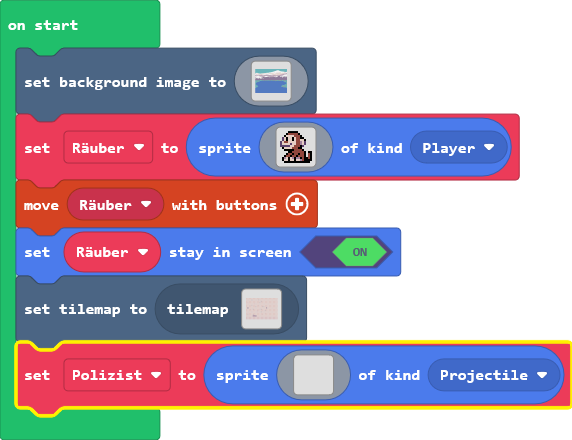
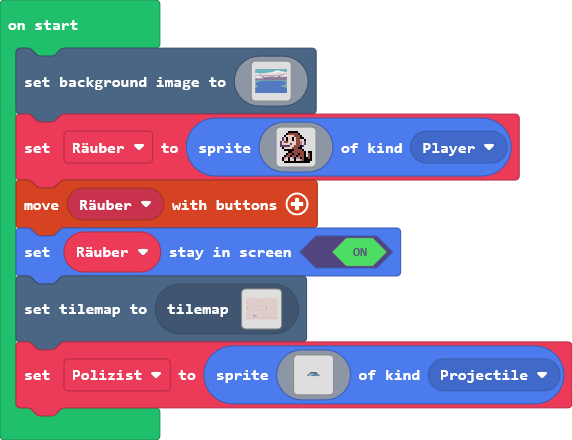
Update pxt.json, main.blocks, main.ts

Changed region(s): [[0.0, 0.7682, 1.0, 0.975], [0.535, 0.8273, 0.5647, 0.8568]]

diff --git a/main.ts b/main.ts
@@ -142,30 +142,30 @@ controller.moveSprite(Räuber)
 Räuber.setStayInScreen(true)
 tiles.setCurrentTilemap(tilemap`level2`)
 let Polizist = sprites.create(img`
-    0 0 0 0 0 0 0 0 0 0 0 0 0 0 0 0 0 0 0 0 0 0 0 0 0 0 0 0 0 0 0 0 0 0 0 0 0 0 0 0 0 0 0 0 0 0 0 0 0 0 0 0 0 0 0 0 0 0 0 0 0 0 0 0 0 0 0 0 0 0 0 0 0 0 c c c c c c c c c c c c c c c c c c c c c c c c c c c c c c c c c c c c c c c c c 0 0 0 0 0 0 0 0 0 0 0 0 0 0 0 0 0 0 0 0 0 0 0 0 0 0 0 0 0 0 0 0 0 0 0 0 0 0 0 0 0 0 0 0 0 0 0 0 0 0 0 0 0 0 0 0 0 0 0 0 0 0 0 0 0 0 0 0 0 0 0 0 0 0 0 0 0 0 0 0 0 0
-    0 0 0 0 0 0 0 0 0 0 0 0 0 0 0 0 0 0 0 0 0 0 0 0 0 0 0 0 0 0 0 0 0 0 0 0 0 0 0 0 0 0 0 0 0 0 0 0 0 0 0 0 0 0 0 0 0 0 0 0 0 0 0 0 0 0 0 0 0 0 0 0 0 0 c f f f f f f f f f f f f f f f f f f f f f f f f f f f f f f f f f f f f f f f f 0 0 0 0 0 0 0 0 0 0 0 0 0 0 0 0 0 0 0 0 0 0 0 0 0 0 0 0 0 0 0 0 0 0 0 0 0 0 0 0 0 0 0 0 0 0 0 0 0 0 0 0 0 0 0 0 0 0 0 0 0 0 0 0 0 0 0 0 0 0 0 0 0 0 0 0 0 0 0 0 0 0
-    0 0 0 0 0 0 0 0 0 0 0 0 0 0 0 0 0 0 0 0 0 0 0 0 0 0 0 0 0 0 0 0 0 0 0 0 0 0 0 0 0 0 0 0 0 0 0 0 0 0 0 0 0 0 0 0 0 0 0 0 0 0 0 0 0 0 0 0 0 0 0 0 0 0 c f f f f f f f f f f f f f f f f f f f f f f f f f f f f f f f f f f f f f f f f 0 0 0 0 0 0 0 0 0 0 0 0 0 0 0 0 0 0 0 0 0 0 0 0 0 0 0 0 0 0 0 0 0 0 0 0 0 0 0 0 0 0 0 0 0 0 0 0 0 0 0 0 0 0 0 0 0 0 0 0 0 0 0 0 0 0 0 0 0 0 0 0 0 0 0 0 0 0 0 0 0 0
-    0 0 0 0 0 0 0 0 0 0 0 0 0 0 0 0 0 0 0 0 0 0 0 0 0 0 0 0 0 0 0 0 0 0 0 0 0 0 0 0 0 0 0 0 0 0 0 0 0 0 0 0 0 0 0 0 0 0 0 0 0 0 0 0 0 0 0 0 0 0 0 0 0 0 c f f f f f f f f f f f f f f f f f f f f f f f f f f f f f f f f f f f f f f f f 0 0 0 0 0 0 0 0 0 0 0 0 0 0 0 0 0 0 0 0 0 0 0 0 0 0 0 0 0 0 0 0 0 0 0 0 0 0 0 0 0 0 0 0 0 0 0 0 0 0 0 0 0 0 0 0 0 0 0 0 0 0 0 0 0 0 0 0 0 0 0 0 0 0 0 0 0 0 0 0 0 0
-    0 0 0 0 0 0 0 0 0 0 0 0 0 0 0 0 0 0 0 0 0 0 0 0 0 0 0 0 0 0 0 0 0 0 0 0 0 0 0 0 0 0 0 0 0 0 0 0 0 0 0 0 0 0 0 0 0 0 0 0 0 0 0 0 0 0 0 0 0 0 0 0 0 0 c f f f f f f f f f f f f f f f f f f f f f f f f f f f f f f f f f f f f f f f f 0 0 0 0 0 0 0 0 0 0 0 0 0 0 0 0 0 0 0 0 0 0 0 0 0 0 0 0 0 0 0 0 0 0 0 0 0 0 0 0 0 0 0 0 0 0 0 0 0 0 0 0 0 0 0 0 0 0 0 0 0 0 0 0 0 0 0 0 0 0 0 0 0 0 0 0 0 0 0 0 0 0
-    0 0 0 0 0 0 0 0 0 0 0 0 0 0 0 0 0 0 0 0 0 0 0 0 0 0 0 0 0 0 0 0 0 0 0 0 0 0 0 0 0 0 0 0 0 0 0 0 0 0 0 0 0 0 0 0 0 0 0 0 0 0 0 0 0 0 0 0 0 0 0 0 0 0 c f f f f f f f f f f f f f f f f f f f f f f f f f f f f f f f f f f f f f f f f 0 0 0 0 0 0 0 0 0 0 0 0 0 0 0 0 0 0 0 0 0 0 0 0 0 0 0 0 0 0 0 0 0 0 0 0 0 0 0 0 0 0 0 0 0 0 0 0 0 0 0 0 0 0 0 0 0 0 0 0 0 0 0 0 0 0 0 0 0 0 0 0 0 0 0 0 0 0 0 0 0 0
-    0 0 0 0 0 0 0 0 0 0 0 0 0 0 0 0 0 0 0 0 0 0 0 0 0 0 0 0 0 0 0 0 0 0 0 0 0 0 0 0 0 0 0 0 0 0 0 0 0 0 0 0 0 0 0 0 0 0 0 0 0 0 0 0 0 0 0 0 0 0 0 0 0 0 c f f f f f f f f f f f f f f f f f f f f f f f f f f f f f f f f f f f f f f f f 0 0 0 0 0 0 0 0 0 0 0 0 0 0 0 0 0 0 0 0 0 0 0 0 0 0 0 0 0 0 0 0 0 0 0 0 0 0 0 0 0 0 0 0 0 0 0 0 0 0 0 0 0 0 0 0 0 0 0 0 0 0 0 0 0 0 0 0 0 0 0 0 0 0 0 0 0 0 0 0 0 0
-    0 0 0 0 0 0 0 0 0 0 0 0 0 0 0 0 0 0 0 0 0 0 0 0 0 0 0 0 0 0 0 0 0 0 0 0 0 0 0 0 0 0 0 0 0 0 0 0 0 0 0 0 0 0 0 0 0 0 0 0 0 0 0 0 0 0 0 0 0 0 0 0 0 0 c f f f f f f f f f f f f f f f f f f f f f f f f f f f f f f f f f f f f f f f f 0 0 0 0 0 0 0 0 0 0 0 0 0 0 0 0 0 0 0 0 0 0 0 0 0 0 0 0 0 0 0 0 0 0 0 0 0 0 0 0 0 0 0 0 0 0 0 0 0 0 0 0 0 0 0 0 0 0 0 0 0 0 0 0 0 0 0 0 0 0 0 0 0 0 0 0 0 0 0 0 0 0
-    0 0 0 0 0 0 0 0 0 0 0 0 0 0 0 0 0 0 0 0 0 0 0 0 0 0 0 0 0 0 0 0 0 0 0 0 0 0 0 0 0 0 0 0 0 0 0 0 0 0 0 0 0 0 0 0 0 0 0 0 0 0 0 0 0 0 0 c 0 0 0 0 0 c c c b b b 6 6 6 c c c c c c c c c c c c c c c c c c 8 8 8 8 8 8 8 8 8 8 8 8 8 c c c c 0 0 0 0 0 c 0 0 0 0 0 0 0 0 0 0 0 0 0 0 0 0 0 0 0 0 0 0 0 0 0 0 0 0 0 0 0 0 0 0 0 0 0 0 0 0 0 0 0 0 0 0 0 0 0 0 0 0 0 0 0 0 0 0 0 0 0 0 0 0 0 0 0 0 0 0 0 0 0 0
-    0 0 0 0 0 0 0 0 0 0 0 0 0 0 0 0 0 0 0 0 0 0 0 0 0 0 0 0 0 0 0 0 0 0 0 0 0 0 0 0 0 0 0 0 0 0 0 0 0 0 0 0 0 0 0 0 0 0 0 0 0 0 0 0 0 0 f f f f f f f f b b b b b b b b 6 6 6 6 6 6 6 6 6 6 6 6 6 6 6 6 6 8 8 8 8 8 8 8 8 8 8 8 8 8 8 8 c f f f f f f f f 0 0 0 0 0 0 0 0 0 0 0 0 0 0 0 0 0 0 0 0 0 0 0 0 0 0 0 0 0 0 0 0 0 0 0 0 0 0 0 0 0 0 0 0 0 0 0 0 0 0 0 0 0 0 0 0 0 0 0 0 0 0 0 0 0 0 0 0 0 0 0 0 0 0
-    0 0 0 0 0 0 0 0 0 0 0 0 0 0 0 0 0 0 0 0 0 0 0 0 0 0 0 0 0 0 0 0 0 0 0 0 0 0 0 0 0 0 0 0 0 0 0 0 0 0 0 0 0 0 0 0 0 0 0 0 0 0 0 0 0 0 f f f f f f f f b b b b b 6 b b 6 6 6 6 6 6 6 6 6 6 6 6 6 6 6 6 6 8 8 8 8 8 8 8 8 8 8 8 8 8 8 8 8 c f f f f f f f 0 0 0 0 0 0 0 0 0 0 0 0 0 0 0 0 0 0 0 0 0 0 0 0 0 0 0 0 0 0 0 0 0 0 0 0 0 0 0 0 0 0 0 0 0 0 0 0 0 0 0 0 0 0 0 0 0 0 0 0 0 0 0 0 0 0 0 0 0 0 0 0 0 0
-    0 0 0 0 0 0 0 0 0 0 0 0 0 0 0 0 0 0 0 0 0 0 0 0 0 0 0 0 0 0 0 0 0 0 0 0 0 0 0 0 0 0 0 0 0 0 0 0 0 0 0 0 0 0 0 0 0 0 0 0 0 0 0 0 0 0 f f f f f f f f b b b b b 9 b b 6 6 6 6 6 6 6 6 6 6 6 6 6 6 6 6 6 8 8 8 8 8 8 8 8 8 8 8 8 8 8 8 8 8 f f f f f f f 0 0 0 0 0 0 0 0 0 0 0 0 0 0 0 0 0 0 0 0 0 0 0 0 0 0 0 0 0 0 0 0 0 0 0 0 0 0 0 0 0 0 0 0 0 0 0 0 0 0 0 0 0 0 0 0 0 0 0 0 0 0 0 0 0 0 0 0 0 0 0 0 0 0
-    0 0 0 0 0 0 0 0 0 0 0 0 0 0 0 0 0 0 0 0 0 0 0 0 0 0 0 0 0 0 0 0 0 0 0 0 0 0 0 0 0 0 0 0 0 0 0 0 0 0 0 0 0 0 0 0 0 0 0 0 0 0 0 0 0 0 f f f f f f f f b b b b b 6 9 9 6 6 6 6 6 6 6 6 6 6 6 6 6 6 6 6 6 8 8 8 8 8 8 8 8 8 8 8 8 8 8 8 8 8 f f f f f f f 0 0 0 0 0 0 0 0 0 0 0 0 0 0 0 0 0 0 0 0 0 0 0 0 0 0 0 0 0 0 0 0 0 0 0 0 0 0 0 0 0 0 0 0 0 0 0 0 0 0 0 0 0 0 0 0 0 0 0 0 0 0 0 0 0 0 0 0 0 0 0 0 0 0
-    0 0 0 0 0 0 0 0 0 0 0 0 0 0 0 0 0 0 0 0 0 0 0 0 0 0 0 0 0 0 0 0 0 0 0 0 0 0 0 0 0 0 0 0 0 0 0 0 0 0 0 0 0 0 0 0 0 0 0 0 0 0 0 0 0 0 f f f f f f f f b b b b b 9 b 9 6 6 6 6 6 6 6 6 6 6 6 6 6 6 6 6 6 8 8 8 8 8 8 8 8 8 8 8 8 8 8 8 8 8 f f f f f f f 0 0 0 0 0 0 0 0 0 0 0 0 0 0 0 0 0 0 0 0 0 0 0 0 0 0 0 0 0 0 0 0 0 0 0 0 0 0 0 0 0 0 0 0 0 0 0 0 0 0 0 0 0 0 0 0 0 0 0 0 0 0 0 0 0 0 0 0 0 0 0 0 0 0
-    0 0 0 0 0 0 0 0 0 0 0 0 0 0 0 0 0 0 0 0 0 0 0 0 0 0 0 0 0 0 0 0 0 0 0 0 0 0 0 0 0 0 0 0 0 0 0 0 0 0 0 0 0 0 0 0 0 0 0 0 0 0 0 0 0 0 f f f f f f f f b b b b b b 6 6 6 6 6 6 6 6 6 6 6 6 6 6 6 6 6 6 6 8 8 8 8 8 8 8 8 8 8 8 8 8 8 8 8 8 f f f f f f f 0 0 0 0 0 0 0 0 0 0 0 0 0 0 0 0 0 0 0 0 0 0 0 0 0 0 0 0 0 0 0 0 0 0 0 0 0 0 0 0 0 0 0 0 0 0 0 0 0 0 0 0 0 0 0 0 0 0 0 0 0 0 0 0 0 0 0 0 0 0 0 0 0 0
-    0 0 0 0 0 0 0 0 0 0 0 0 0 0 0 0 0 0 0 0 0 0 0 0 0 0 0 0 0 0 0 0 0 0 0 0 0 0 0 0 0 0 0 0 0 0 0 0 0 0 0 0 0 0 0 0 0 0 0 0 0 0 0 0 0 0 f f f f f f f f b b b b b 6 6 6 6 6 6 6 6 6 6 6 6 6 6 6 6 6 6 6 6 8 8 8 8 8 8 8 8 8 8 8 8 8 8 8 8 8 f f f f f f f 0 0 0 0 0 0 0 0 0 0 0 0 0 0 0 0 0 0 0 0 0 0 0 0 0 0 0 0 0 0 0 0 0 0 0 0 0 0 0 0 0 0 0 0 0 0 0 0 0 0 0 0 0 0 0 0 0 0 0 0 0 0 0 0 0 0 0 0 0 0 0 0 0 0
-    0 0 0 0 0 0 0 0 0 0 0 0 0 0 0 0 0 0 0 0 0 0 0 0 0 0 0 0 0 0 0 0 0 0 0 0 0 0 0 0 0 0 0 0 0 0 0 0 0 0 0 0 0 0 0 0 0 0 0 0 0 0 0 0 0 0 c c c c c c c c b b b b 6 6 6 9 6 6 6 6 6 6 6 6 6 6 6 6 6 6 6 6 6 8 8 8 8 8 8 8 8 8 8 8 8 8 8 8 8 8 8 c c c c c c c 0 0 0 0 0 0 0 0 0 0 0 0 0 0 0 0 0 0 0 0 0 0 0 0 0 0 0 0 0 0 0 0 0 0 0 0 0 0 0 0 0 0 0 0 0 0 0 0 0 0 0 0 0 0 0 0 0 0 0 0 0 0 0 0 0 0 0 0 0 0 0 0 0
-    0 0 0 0 0 0 0 0 0 0 0 0 0 0 0 0 0 0 0 0 0 0 0 0 0 0 0 0 0 0 0 0 0 0 0 0 0 0 0 0 0 0 0 0 0 0 0 0 0 0 0 0 0 0 0 0 0 0 f f f f f f f c b b b b b b b b b 9 9 b 9 9 b 9 6 8 8 8 8 8 8 8 8 8 8 8 8 8 8 8 8 8 8 8 8 8 8 8 8 8 8 8 8 8 8 8 8 6 6 6 6 6 6 6 c c f f f f f f f c 0 0 0 0 0 0 0 0 0 0 0 0 0 0 0 0 0 0 0 0 0 0 0 0 0 0 0 0 0 0 0 0 0 0 0 0 0 0 0 0 0 0 0 0 0 0 0 0 0 0 0 0 0 0 0 0 0 0 0 0 0 0 0 0 0
-    0 0 0 0 0 0 0 0 0 0 0 0 0 0 0 0 0 0 0 0 0 0 0 0 0 0 0 0 0 0 0 0 0 0 0 0 0 0 0 0 0 0 0 0 0 0 0 0 0 0 0 0 0 0 0 0 0 0 f f f f f f f c b b b b b b b b b 6 6 6 6 6 6 9 6 8 8 8 8 8 8 8 8 8 8 8 8 8 8 8 8 8 8 8 8 8 8 8 8 8 8 8 8 8 8 8 8 6 6 6 6 6 6 6 b c f f f f f f f c 0 0 0 0 0 0 0 0 0 0 0 0 0 0 0 0 0 0 0 0 0 0 0 0 0 0 0 0 0 0 0 0 0 0 0 0 0 0 0 0 0 0 0 0 0 0 0 0 0 0 0 0 0 0 0 0 0 0 0 0 0 0 0 0 0
-    0 0 0 0 0 0 0 0 0 0 0 0 0 0 0 0 0 0 0 0 0 0 0 0 0 0 0 0 0 0 0 0 0 0 0 0 0 0 0 0 0 0 0 0 0 0 0 0 0 0 0 0 0 0 0 0 0 0 f f f f f f f c b b 6 6 6 9 6 6 6 9 9 9 9 9 b 9 6 8 8 8 8 8 8 8 8 8 8 8 8 8 8 8 8 8 8 8 8 8 8 8 8 8 8 8 8 8 8 8 8 6 6 6 6 6 6 6 6 c f f f f f f f c 0 0 0 0 0 0 0 0 0 0 0 0 0 0 0 0 0 0 0 0 0 0 0 0 0 0 0 0 0 0 0 0 0 0 0 0 0 0 0 0 0 0 0 0 0 0 0 0 0 0 0 0 0 0 0 0 0 0 0 0 0 0 0 0 0
-    0 0 0 0 0 0 0 0 0 0 0 0 0 0 0 0 0 0 0 0 0 0 0 0 0 0 0 0 0 0 0 0 0 0 0 0 0 0 0 0 0 0 0 0 0 0 0 0 0 0 0 0 0 0 0 0 0 0 f f f f f f f c b b b 6 9 6 9 6 6 9 6 6 6 b 9 9 6 8 8 8 8 8 8 8 8 8 8 8 8 8 8 8 8 8 8 8 8 8 8 8 8 8 8 8 8 8 8 8 8 6 6 6 6 6 6 6 6 c f f f f f f f c 0 0 0 0 0 0 0 0 0 0 0 0 0 0 0 0 0 0 0 0 0 0 0 0 0 0 0 0 0 0 0 0 0 0 0 0 0 0 0 0 0 0 0 0 0 0 0 0 0 0 0 0 0 0 0 0 0 0 0 0 0 0 0 0 0
-    0 0 0 0 0 0 0 0 0 0 0 0 0 0 0 0 0 0 0 0 0 0 0 0 0 0 0 0 0 0 0 0 0 0 0 0 0 0 0 0 0 0 0 0 0 0 0 0 0 0 0 0 0 0 0 0 0 0 f f f f f f f c b b b 6 9 9 6 6 9 9 6 6 b 9 9 9 6 8 8 8 8 8 8 8 8 8 8 8 8 8 8 8 8 8 8 8 8 8 8 8 8 8 8 8 8 8 8 8 8 6 6 6 6 6 6 6 6 c f f f f f f f c 0 0 0 0 0 0 0 0 0 0 0 0 0 0 0 0 0 0 0 0 0 0 0 0 0 0 0 0 0 0 0 0 0 0 0 0 0 0 0 0 0 0 0 0 0 0 0 0 0 0 0 0 0 0 0 0 0 0 0 0 0 0 0 0 0
-    0 0 0 0 0 0 0 0 0 0 0 0 0 0 0 0 0 0 0 0 0 0 0 0 0 0 0 0 0 0 0 0 0 0 0 0 0 0 0 0 0 0 0 0 0 0 0 0 0 0 0 0 0 0 0 0 0 0 f f f f f f f c b b b 6 6 6 9 6 9 9 6 6 b 6 9 9 6 8 8 8 8 8 8 8 8 8 8 8 8 8 8 8 8 8 8 8 8 8 8 8 8 8 8 8 8 8 8 8 8 6 6 6 6 6 6 6 6 c f f f f f f f c 0 0 0 0 0 0 0 0 0 0 0 0 0 0 0 0 0 0 0 0 0 0 0 0 0 0 0 0 0 0 0 0 0 0 0 0 0 0 0 0 0 0 0 0 0 0 0 0 0 0 0 0 0 0 0 0 0 0 0 0 0 0 0 0 0
-    0 0 0 0 0 0 0 0 0 0 0 0 0 0 0 0 0 0 0 0 0 0 0 0 0 0 0 0 0 0 0 0 0 0 0 0 0 0 0 0 0 0 0 0 0 0 0 0 0 0 0 0 0 0 0 0 0 0 f f f f f f f c b b b b b 9 b 6 6 6 6 6 6 6 6 9 6 8 8 8 8 8 8 8 8 8 8 8 8 8 8 8 8 8 8 8 8 8 8 8 8 8 8 8 8 8 8 8 8 6 6 6 6 6 6 6 6 c f f f f f f f c 0 0 0 0 0 0 0 0 0 0 0 0 0 0 0 0 0 0 0 0 0 0 0 0 0 0 0 0 0 0 0 0 0 0 0 0 0 0 0 0 0 0 0 0 0 0 0 0 0 0 0 0 0 0 0 0 0 0 0 0 0 0 0 0 0
-    0 0 0 0 0 0 0 0 0 0 0 0 0 0 0 0 0 0 0 0 0 0 0 0 0 0 0 0 0 0 0 0 0 0 0 0 0 0 0 0 0 0 0 0 0 0 0 0 0 0 0 0 0 0 0 0 0 0 f c c c c c c c b b b b b 9 b 9 6 6 6 6 6 6 6 6 6 8 8 8 8 8 8 8 8 8 8 8 8 8 8 8 8 6 6 6 6 6 6 6 6 8 8 8 8 8 8 8 8 6 6 6 6 6 6 6 6 c c f c c c c f c 0 0 0 0 0 0 0 0 0 0 0 0 0 0 0 0 0 0 0 0 0 0 0 0 0 0 0 0 0 0 0 0 0 0 0 0 0 0 0 0 0 0 0 0 0 0 0 0 0 0 0 0 0 0 0 0 0 0 0 0 0 0 0 0 0
-    0 0 0 0
+    ..........................................................................ccccccccccccccccccccccccccccccccccccccccc..................................................................................
+    ..........................................................................cffffffffffffffffffffffffffffffffffffffff..................................................................................
+    ..........................................................................cffffffffffffffffffffffffffffffffffffffff..................................................................................
+    ..........................................................................cffffffffffffffffffffffffffffffffffffffff..................................................................................
+    ..........................................................................cffffffffffffffffffffffffffffffffffffffff..................................................................................
+    ..........................................................................cffffffffffffffffffffffffffffffffffffffff..................................................................................
+    ..........................................................................cffffffffffffffffffffffffffffffffffffffff..................................................................................
+    ..........................................................................cffffffffffffffffffffffffffffffffffffffff..................................................................................
+    ...................................................................c.....cccbbb666cccccccccccccccccc8888888888888cccc.....c..........................................................................
+    ..................................................................ffffffffbbbbbbbb66666666666666666888888888888888cffffffff..........................................................................
+    ..................................................................ffffffffbbbbb6bb666666666666666668888888888888888cfffffff..........................................................................
+    ..................................................................ffffffffbbbbb9bb6666666666666666688888888888888888fffffff..........................................................................
+    ..................................................................ffffffffbbbbb6996666666666666666688888888888888888fffffff..........................................................................
+    ..................................................................ffffffffbbbbb9b96666666666666666688888888888888888fffffff..........................................................................
+    ..................................................................ffffffffbbbbbb666666666666666666688888888888888888fffffff..........................................................................
+    ..................................................................ffffffffbbbbb6666666666666666666688888888888888888fffffff..........................................................................
+    ..................................................................ccccccccbbbb666966666666666666666888888888888888888ccccccc.........................................................................
+    ..........................................................fffffffcbbbbbbbbb99b99b96888888888888888888888888888888886666666ccfffffffc.................................................................
+    ..........................................................fffffffcbbbbbbbbb66666696888888888888888888888888888888886666666bcfffffffc.................................................................
+    ..........................................................fffffffcbb666966699999b968888888888888888888888888888888866666666cfffffffc.................................................................
+    ..........................................................fffffffcbbb6969669666b9968888888888888888888888888888888866666666cfffffffc.................................................................
+    ..........................................................fffffffcbbb699669966b99968888888888888888888888888888888866666666cfffffffc.................................................................
+    ..........................................................fffffffcbbb666969966b69968888888888888888888888888888888866666666cfffffffc.................................................................
+    ..........................................................fffffffcbbbbb9b66666666968888888888888888888888888888888866666666cfffffffc.................................................................
+    ..........................................................fcccccccbbbbb9b96666666668888888888888888666666668888888866666666ccfccccfc.................................................................
+    .....................................................................................................................................................................................................
     `, SpriteKind.Projectile)
